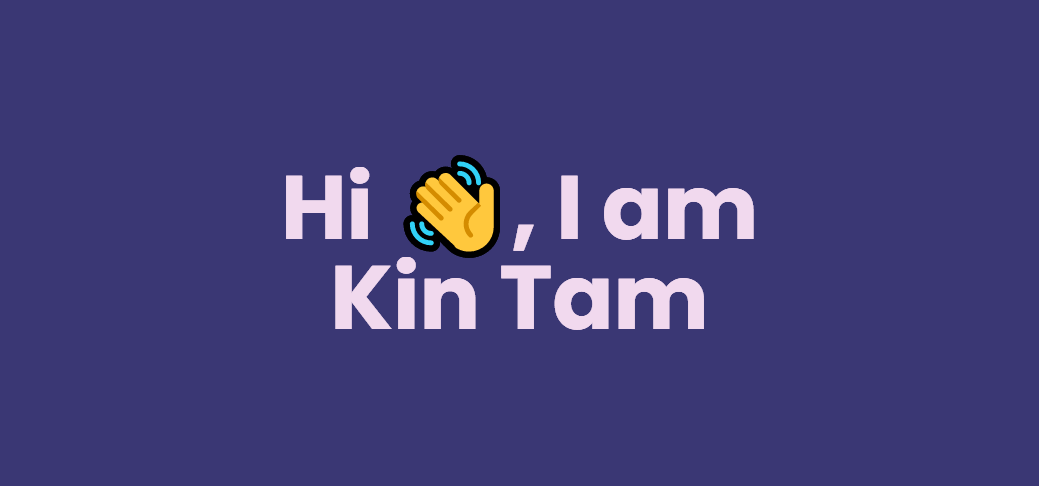
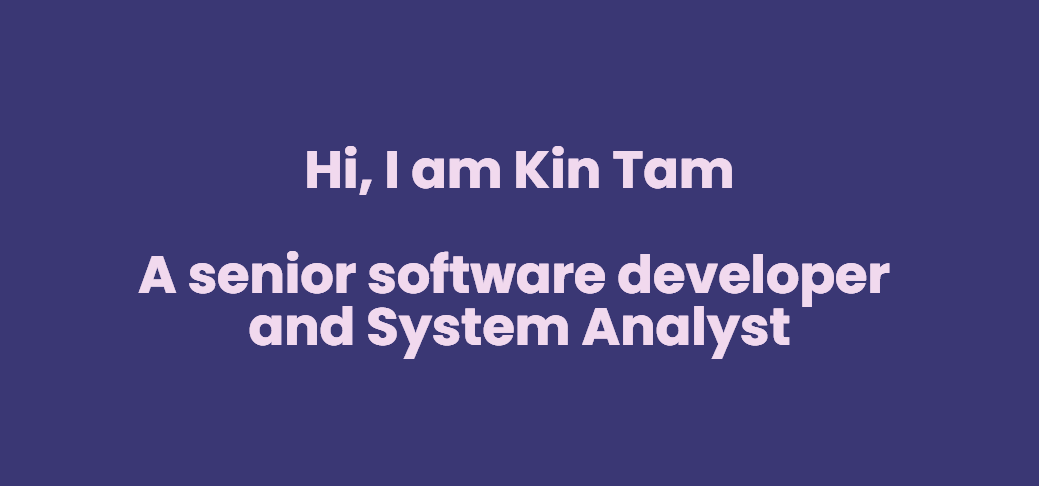
update readme

Changed region(s): [[0.1232, 0.3086, 0.8624, 0.7407]]

diff --git a/README.md b/README.md
@@ -1,4 +1,21 @@
-### Hi there 👋
+[![MasterHead](banner.png)](https://github.com/jedipi)
+
+I am a senior full stack software developer and system analyst Microsoft .NET and Apache/PHP/MySQL technologies. Highly skilled in converting the legacy application into the modern world. Full 8 years of software development experience.
+
+With more than 8 years of experiences in the retail industry, I have learned the importance of IT and developed the vision of how IT can help the retail business grow.
+
+<h3 align="left">Technology Stack</h3>
+<p><img alt="Git" src="https://img.shields.io/badge/git-%23F05033.svg?style=for-the-badge&logo=git&logoColor=white"/> <img alt=".Net" src="https://img.shields.io/badge/.NET-5C2D91?style=for-the-badge&logo=.net&logoColor=white"/> <img alt="C#" src="https://img.shields.io/badge/c%23-%23239120.svg?style=for-the-badge&logo=c-sharp&logoColor=white"/> <img alt="Azure" src="https://img.shields.io/badge/azure-%230072C6.svg?style=for-the-badge&logo=azure-devops&logoColor=white"/> <img alt="Visual Studio" src="https://img.shields.io/badge/VisualStudio-5C2D91.svg?style=for-the-badge&logo=visual-studio&logoColor=white"/> <img alt="Visual Studio Code" src="https://img.shields.io/badge/VisualStudioCode-0078d7.svg?style=for-the-badge&logo=visual-studio-code&logoColor=white"/> <img alt="GitHub Actions" src="https://img.shields.io/badge/githubactions-%232671E5.svg?style=for-the-badge&logo=githubactions&logoColor=white"/> <img alt="PHP" src="https://img.shields.io/badge/php-%23777BB4.svg?style=for-the-badge&logo=php&logoColor=white"/> <img alt="HTML5" src="https://img.shields.io/badge/html5-%23E34F26.svg?style=for-the-badge&logo=html5&logoColor=white"/> <img alt="CSS3" src="https://img.shields.io/badge/css3-%231572B6.svg?style=for-the-badge&logo=css3&logoColor=white"/> <img alt="Bootstrap" src="https://img.shields.io/badge/bootstrap-%23563D7C.svg?style=for-the-badge&logo=bootstrap&logoColor=white"/> <img alt="Laravel" src="https://img.shields.io/badge/laravel-%23FF2D20.svg?style=for-the-badge&logo=laravel&logoColor=white"/> <img alt="Apache" src="https://img.shields.io/badge/apache-%23D42029.svg?style=for-the-badge&logo=apache&logoColor=white"/> <img alt="MySQL" src="https://img.shields.io/badge/mysql-%2300f.svg?style=for-the-badge&logo=mysql&logoColor=white"/> <img alt="SQLite" src ="https://img.shields.io/badge/sqlite-%2307405e.svg?style=for-the-badge&logo=sqlite&logoColor=white"/> <img alt="Adobe Photoshop" src="https://img.shields.io/badge/adobephotoshop-%2331A8FF.svg?style=for-the-badge&logo=adobephotoshop&logoColor=white" /> <img alt="Figma" src="https://img.shields.io/badge/figma-%23F24E1E.svg?style=for-the-badge&logo=figma&logoColor=white"/></p>
+
+<h3 align="left">My Github Stats</h3>
+<p align="left"> <img alt="Kin's GitHub Stats" src="https://github-readme-stats.vercel.app/api?username=jedipi&show_icons=true&theme=radical&bg_color=3a3774&title_color=f1d9ee&text_color=f1d9ee" style="max-height:195px" /> <img alt="Top Langs" src="https://github-readme-stats.vercel.app/api/top-langs/?username=jedipi&bg_color=3a3774&title_color=f1d9ee&text_color=f1d9ee" style="max-height:195px" /> <img alt="GitHub Streak" src="http://github-readme-streak-stats.herokuapp.com?user=jedipi&theme=dark&background=3A3774" />
+</p>
+
+<h3 align="left">Connect with me:</h3>
+<p align="left">
+<a href="https://www.linkedin.com/in/kindeman/" target="blank"><img align="center" src="https://cdn.jsdelivr.net/npm/simple-icons@3.0.1/icons/linkedin.svg" alt="" height="30" width="40" /></a>
+</p>
+
 
 <!--
 **jedipi/jedipi** is a ✨ _special_ ✨ repository because its `README.md` (this file) appears on your GitHub profile.
